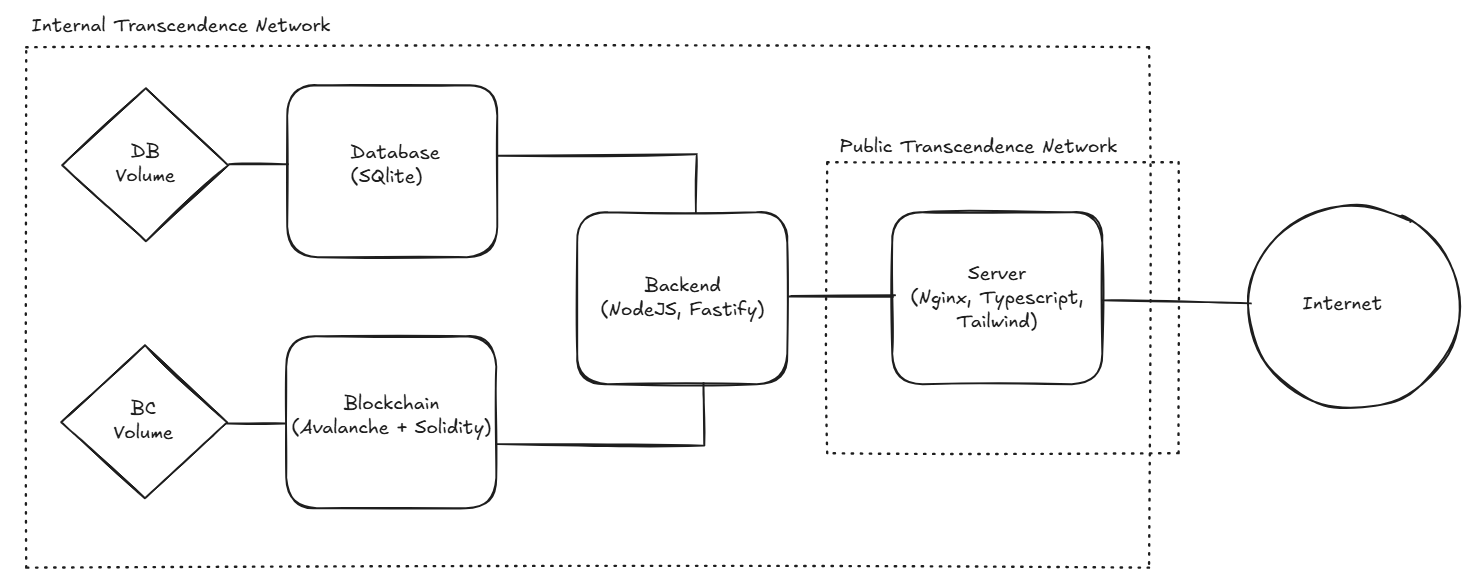
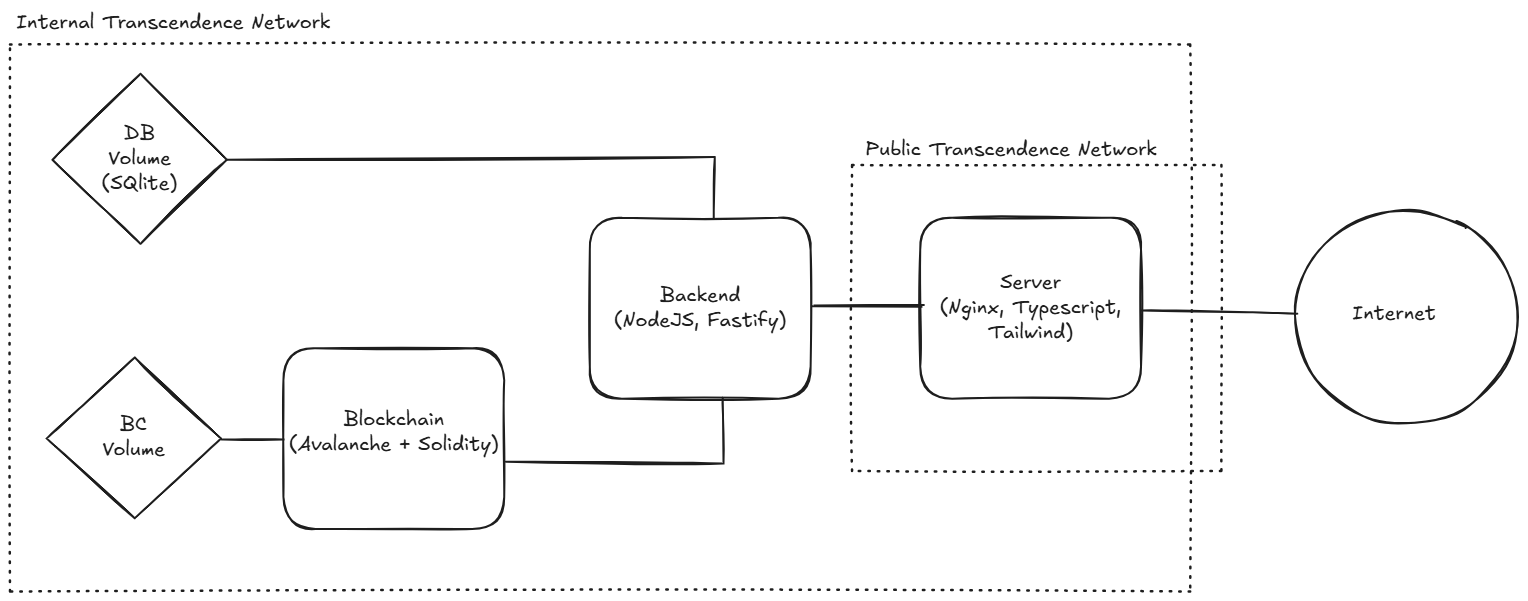
Docker Architecture update

diff --git a/docs/logs/meetings/2025_02_19.md b/docs/logs/meetings/2025_02_19.md
@@ -1,0 +1,4 @@
+# General review of last week
+
+# SQlite is supposed to work as an embedded database, serverless and file-based.
+## As such, we changed the project's architecture to remove the DB container and have the backend directly communicate with the volume

diff --git a/docs/guides/TestingFrontend.md b/docs/guides/TestingFrontend.md
@@ -1,5 +1,3 @@
-NOTE: Before attempting to run anything, make sure "padaria.42.pt" is added to /etc/hosts so it resolves to 127.0.0.1
-
 1. cd /srcs/requirements
 2. docker build server
 3. docker run -d -p 443:443 <IMAGE_ID>

diff --git a/docs/logs/technicaldebt/solved.md b/docs/logs/technicaldebt/solved.md
@@ -1,6 +1,5 @@
 # Solved Technical Debt issues for ft_transcendence
 
-
 ## 1. Hard-coded variables in the server container
 
 ### Date Created: 15/02/2025
